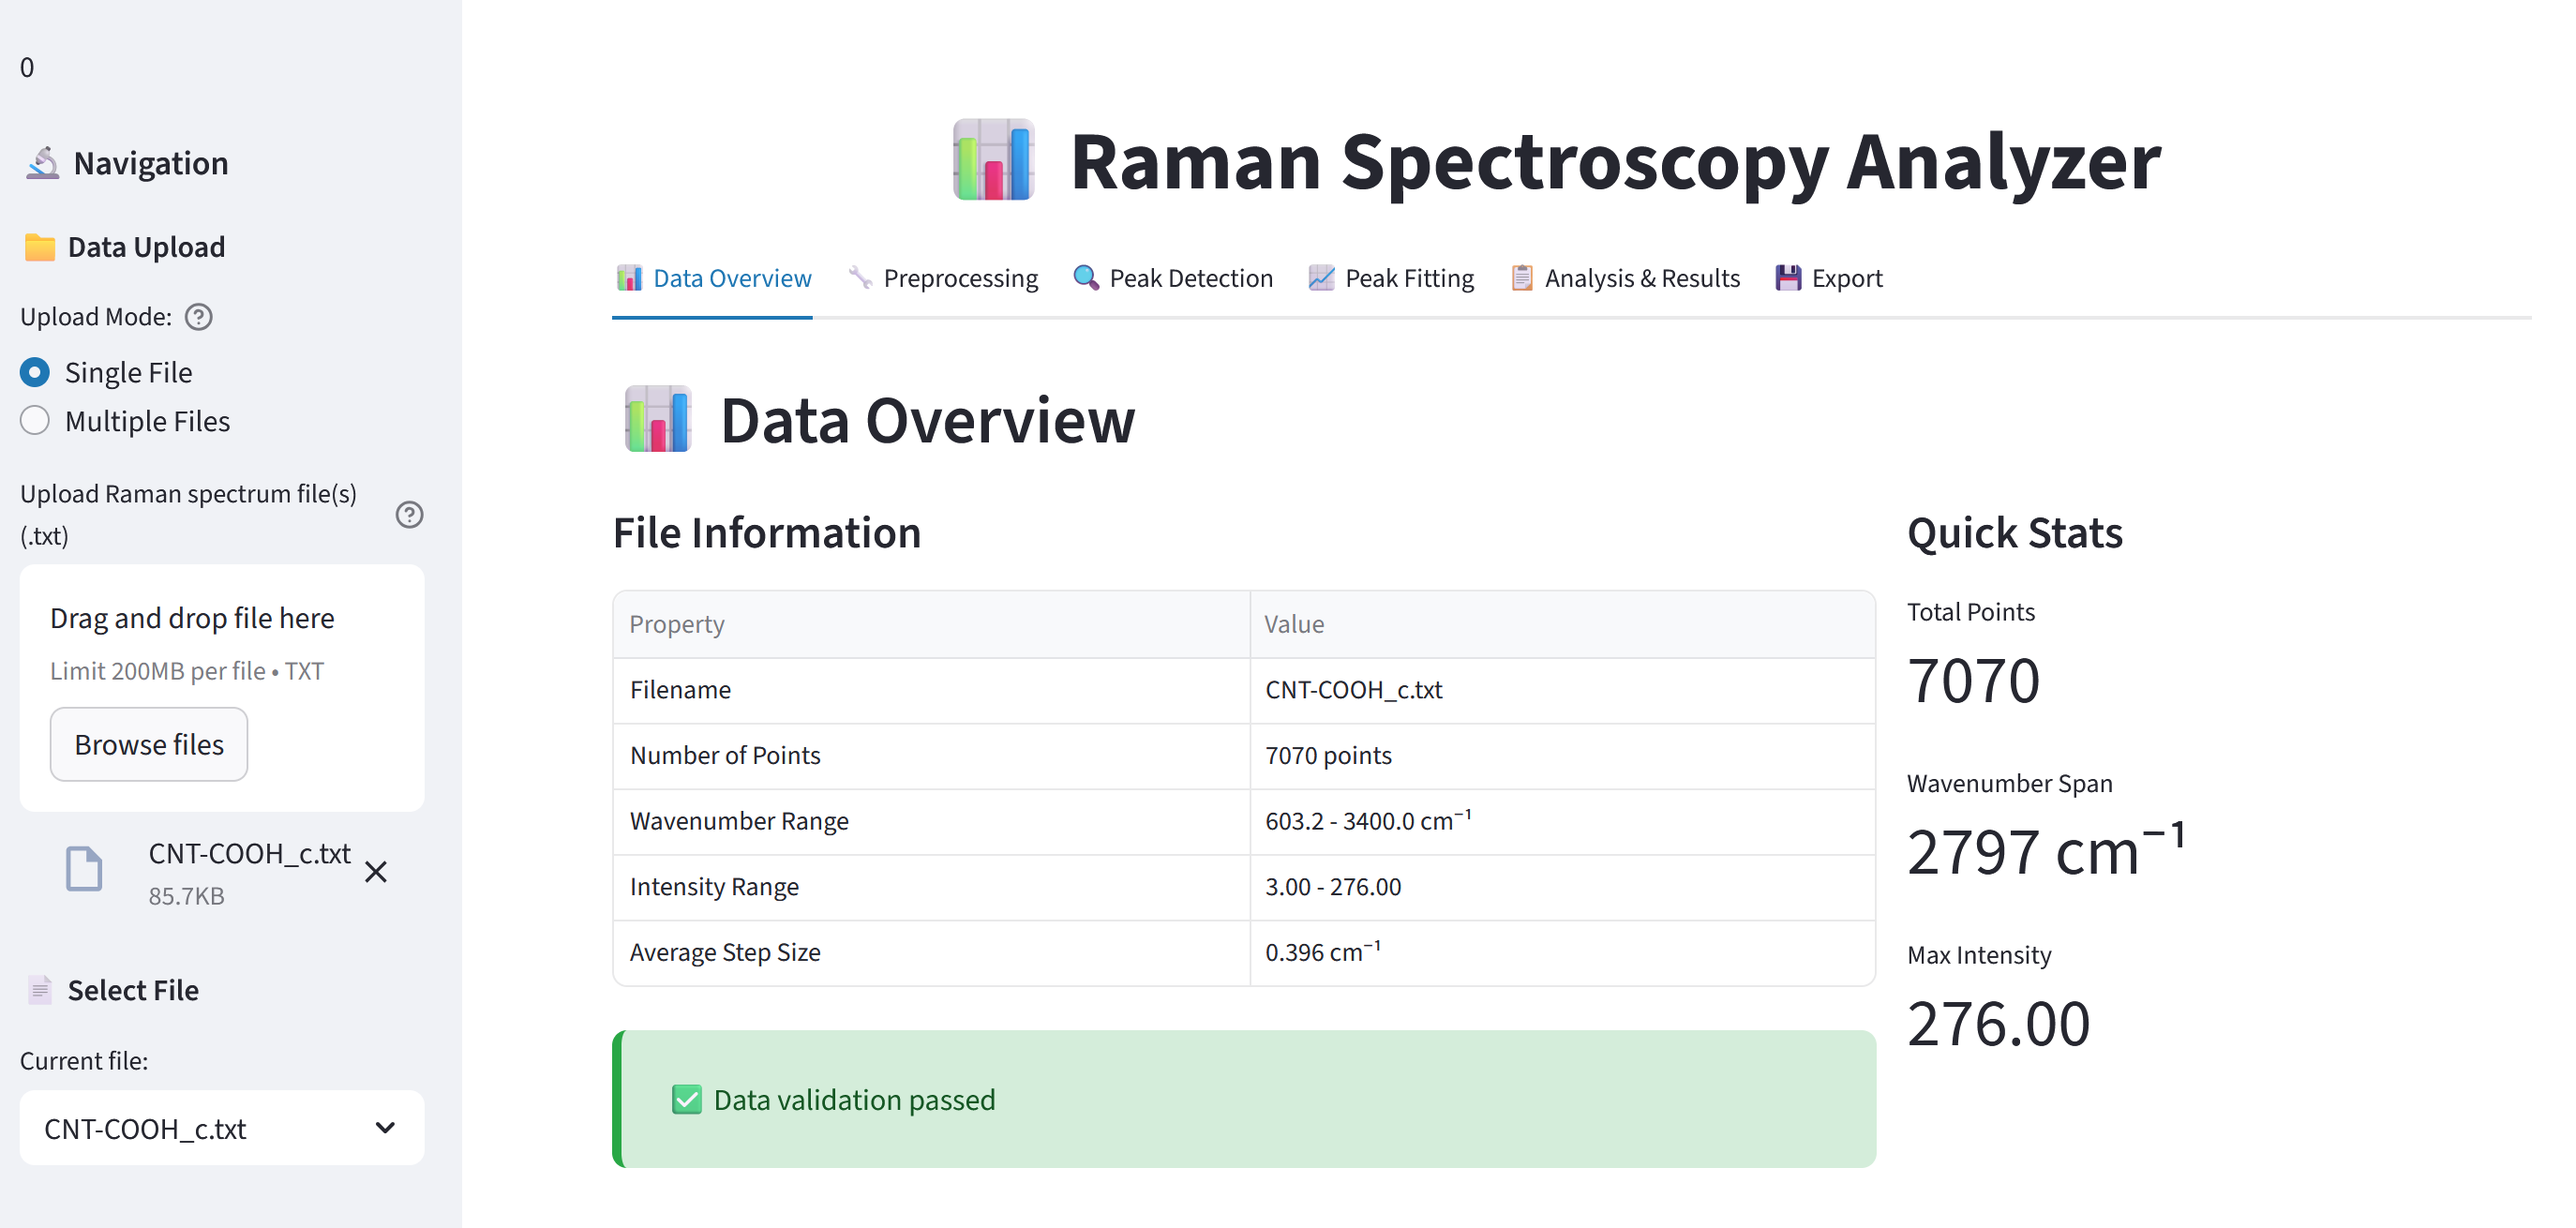
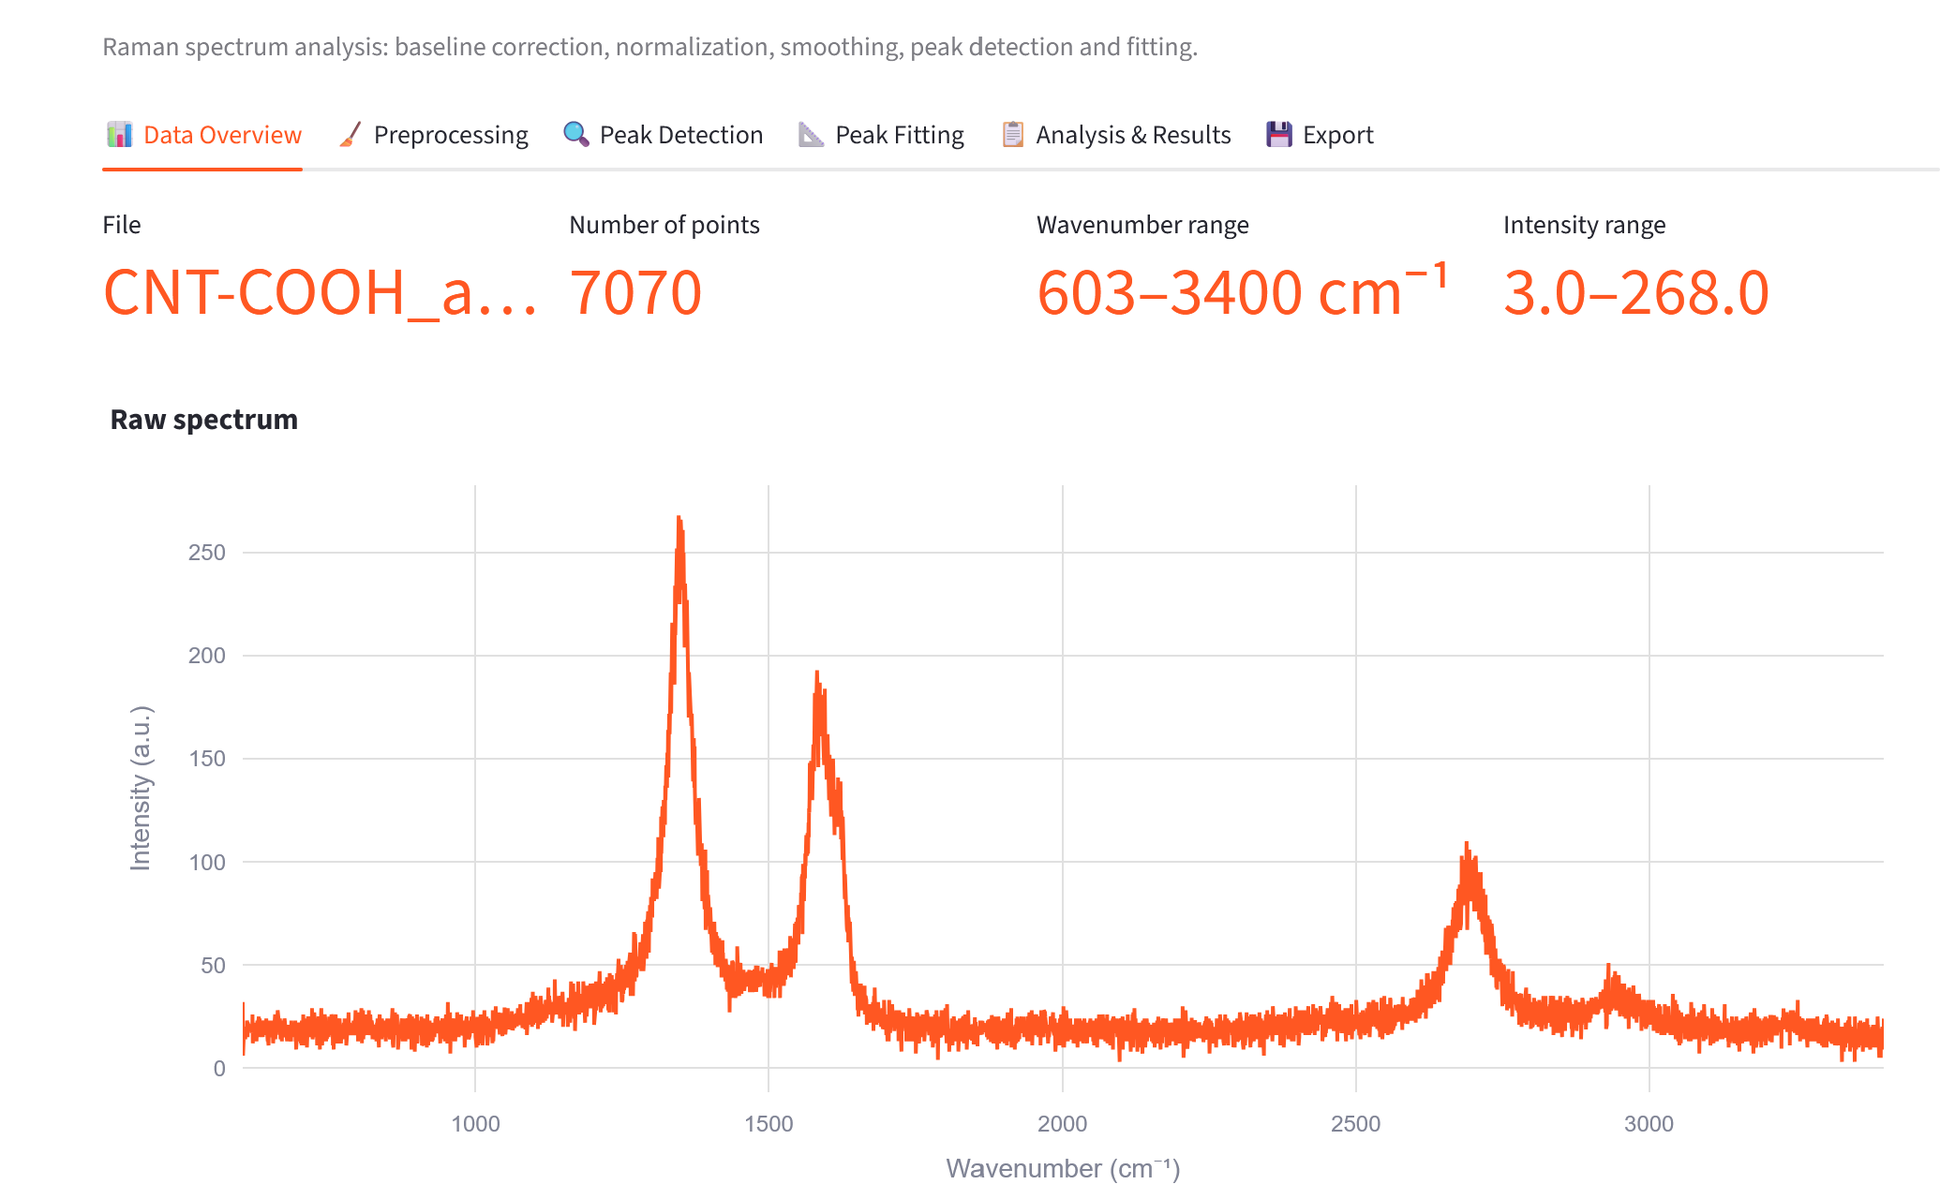
Add nanotube-project cross-links; finish Raman page (fresh screenshots, live demo link, test count)
- Cross-links between Carbon Nanotube Visualizer, Raman Spectroscopy
  Analyzer, and Carbon Nanotubes RAG project pages
- Raman page: added live demo link, replaced stale Data Overview
  screenshot, added new Baseline Correction screenshot, fixed test
  count (41 -> 65) and removed stale "not yet deployed" text

diff --git a/docs/raman-spectroscopy-analyzer/index.md b/docs/raman-spectroscopy-analyzer/index.md
@@ -1,28 +1,34 @@
 # 🔬 Raman Spectroscopy Analysis Tool
 
+🚀 **Live Demo:** <a href="https://raman-spectroscopy-analyzer.streamlit.app/" target="_blank">raman-spectroscopy-analyzer.streamlit.app</a>
+
 ## ✨ Overview
 
-The **Raman Spectroscopy Analysis Tool** is a comprehensive web application built with Streamlit and scientific Python libraries (Pandas, NumPy, SciPy, LMFIT), designed for chemists, materials scientists, and engineers to quickly and accurately process, analyze, and characterize Raman spectroscopy data, particularly focusing on **carbonaceous materials** (e.g., graphene, carbon nanotubes).
+The **Raman Spectroscopy Analysis Tool** is a comprehensive web application built with Streamlit and scientific Python libraries (Pandas, NumPy, SciPy), designed for chemists, materials scientists, and engineers to quickly and accurately process, analyze, and characterize Raman spectroscopy data, particularly focusing on **carbonaceous materials** (e.g., graphene, carbon nanotubes).
 
 It streamlines the entire workflow from raw data import to quantitative material property extraction, eliminating the need for complex desktop software.
 
-📈 Screenshots from the application: 
+📈 Screenshots from the application:
 
+![Screen from app](data-overview.png)
 
-![Screen from app](img%20(1).png)
+#### 📊 Data Overview
+The **"Data Overview"** tab is the analysis starting point. It displays **metadata** for the loaded file (e.g., CNT-COOH_a.txt), including the **number of data points** (7070), the **Wavenumber Range** (603–3400 cm⁻¹), and the intensity range, alongside a plot of the raw spectrum.
 
-#### 🔍 Peak Detection Visualization
-The "Peak Detection" screen displays the results of automatic peak identification within a Raman spectrum (example for CNT-COOH_c.txt). The overlaid interactive Plotly chart visualizes 11 detected peaks (marked with a red 'X'), based on defined parameters such as Minimum height (0.15) and Prominence (0.08).
+![Screen from app](baseline-correction.png)
 
-![Screen from app](img%20(2).png)
+#### 🧹 Baseline Correction
+The **"Preprocessing"** tab shows the raw spectrum with the fitted baseline overlaid (here, the **Linear (Endpoints)** method), and the resulting baseline-corrected spectrum below it — the three characteristic carbon-nanotube bands (D, G, 2D) are clearly resolved once the fluorescence background is removed.
 
-#### 📊 Loaded Spectrum Overview
-The **"Data Overview"** screen serves as the analysis starting point. It displays **metadata** for the loaded file (e.g., CNT-COOH\_c.txt), including the **number of data points** (7070), the **Wavenumber Range** (603.2 - 3400.0 cm^{-1}), and the minimum and maximum intensity values. The **"Data validation passed"** section confirms that the data format is correct before commencing the processing workflow.
-
-![Screen from app](img%20(3).png)
+![Screen from app](normalization-comparison.png)
 
 #### 📈 Spectrum Normalization Comparison
-The **"Preprocessing"** tab allows you to select a normalization method. The screenshot shows a comparison of the original spectrum (left, blue) with the normalized spectrum (right, green) using the **Min-Max** method. This method scales intensities to the range [0, 1], which is crucial for sample comparison and ensuring data consistency for peak detection algorithms.
+The same tab lets you apply a normalization method afterwards. The screenshot shows a comparison of the original spectrum (left, blue) with the normalized spectrum (right, green) using the **Min-Max** method, which scales intensities to the range [0, 1] for cross-sample comparison.
+
+![Screen from app](peak-detection.png)
+
+#### 🔍 Peak Detection Visualization
+The **"Peak Detection"** tab displays the results of automatic peak identification within a Raman spectrum (example for CNT-COOH_c.txt). The overlaid interactive Plotly chart visualizes 11 detected peaks (marked with a red 'X'), based on defined parameters such as Minimum height (0.15) and Prominence (0.08).
 
 
 ## 🛠 Key Features and Workflow
@@ -34,10 +40,10 @@ The application implements a full-featured spectroscopy workflow across several 
     * **Baseline Correction:** Algorithms including **Linear (Endpoints)** and **Asymmetric Least Squares (ALS)** to remove fluorescence background. 
     * **Normalization:** Methods like Min-Max, Max-Intensity, Area, and Vector (L2) normalization for comparison.
     * **Smoothing:** Optional Savitzky-Golay filtering to reduce noise.
-* **Peak Analysis:** Automated detection and categorization of Raman bands (such as **D, G, RBM, 2D bands** for carbon materials). Calculates fundamental peak statistics.
+* **Peak Analysis:** Automated detection and categorization of Raman bands (**D, G, 2D bands** for carbon materials). Calculates fundamental peak statistics.
 * **Quantitative Fitting & Deconvolution:** Advanced fitting using **Lorentzian** or **Gaussian** models for precise deconvolution of overlapping bands (e.g., D and G bands). This allows calculation of critical ratios.
 * **Material Characterization:** Calculates key material parameters based on fitting results, such as:
-    * The **$I_D/I_G$ ratio**, crucial for determining defect density/crystallinity.
+    * The **$I_D/I_G$ ratio**, crucial for determining defect density/crystallinity, plus an estimated crystallite size (La) via the Tuinstra-Koenig relation — parameterized by the instrument's actual laser excitation wavelength (458-785 nm) rather than a single hardcoded constant.
     * The **$I_{2D}/I_G$ ratio**, critical for characterizing the number of graphene layers.
 * **Visualization & Export:** Interactive plots (Plotly) at every stage of the pipeline and the ability to export final results.
 
@@ -48,8 +54,14 @@ The application implements a full-featured spectroscopy workflow across several 
 | **Frontend/App** | **Streamlit** | Rapid web application development and interactive UI/UX. |
 | **Data Processing** | **Python (Pandas, NumPy)** | Core data manipulation and scientific computing. |
 | **Signal Processing** | **SciPy** | Implementation of advanced algorithms (Savitzky-Golay, Peak Detection, ALS). |
-| **Peak Fitting** | **LMFIT** | Non-linear least squares minimization for peak deconvolution. |
+| **Peak Fitting** | **SciPy** (`curve_fit`) | Bounded non-linear least squares for peak deconvolution, with parameter uncertainties from the fit covariance matrix. |
 | **Visualization** | **Plotly** / **Matplotlib** | Generating responsive, interactive data visualizations. |
+
+## 🧪 Testing
+
+Core logic (data loading/validation, preprocessing, peak detection, peak fitting,
+export, batch processing) is covered by a 65-test pytest suite, run automatically
+on every push via GitHub Actions.
 
 ## 🌟 Contributions and Impact
 
@@ -61,6 +73,14 @@ This project showcases expertise in:
 
 ## 🔗 Project Links
 
-* <a href="https://raman-spectroscopy-analyzer.streamlit.app/" target="_blank">Project Page</a>
-* <a href="https://github.com/slastrzelec/04_Raman-Spectroscopy-Analyzer" target="_blank">GitHub Repository</a>
+* <a href="https://raman-spectroscopy-analyzer.streamlit.app/" target="_blank">Live Demo</a>
+* <a href="https://github.com/slastrzelec/raman-spectroscopy-analyzer" target="_blank">GitHub Repository</a>
+
+## 🧬 Related Projects
+
+Part of the same carbon-nanotube work as the
+[Carbon Nanotube Visualizer](../carbon-nanotube-visualizer/index.md) (structure and
+electronic-property modeling) and the
+[Carbon Nanotubes RAG System](../13_RAG_raman/index.md) (literature Q&A over the
+underlying research papers).
 

diff --git a/docs/13_RAG_raman/index.md b/docs/13_RAG_raman/index.md
@@ -63,4 +63,12 @@ Both the Streamlit UI and the FastAPI backend are thin interface layers over the
 - Live API deployment fits a 512MB free-tier container thanks to a CPU-only PyTorch build
 - Full REST API with `/query`, `/documents`, `/health` endpoints, input validation, and structured error responses
 
+## 🧬 Related Projects
+
+Part of the same carbon-nanotube work as the
+[Raman Spectroscopy Analyzer](../raman-spectroscopy-analyzer/index.md) (experimental
+spectral characterization of the CNT samples referenced in the corpus) and the
+[Carbon Nanotube Visualizer](../carbon-nanotube-visualizer/index.md) (structure and
+electronic-property modeling).
+
 *Note: the live API runs on a free-tier instance and spins down after 15 minutes of inactivity — the first request after idle time may take 30–60 seconds to respond (cold start).*

diff --git a/docs/carbon-nanotube-visualizer/index.md b/docs/carbon-nanotube-visualizer/index.md
@@ -99,3 +99,11 @@ buttons gracefully instead of crashing.
 See the [project's `SPEC.md`](https://github.com/slastrzelec/carbon-nanotube-visualizer/blob/main/SPEC.md)
 for the full technical rationale and physics references (Saito, Dresselhaus &
 Dresselhaus, *Physical Properties of Carbon Nanotubes*; Iijima, *Nature*, 1991).
+
+## 🧬 Related Projects
+
+Part of the same carbon-nanotube work as the
+[Raman Spectroscopy Analyzer](../raman-spectroscopy-analyzer/index.md) (experimental
+spectral characterization of CNT samples) and the
+[Carbon Nanotubes RAG System](../13_RAG_raman/index.md) (literature Q&A over the
+underlying research papers).
